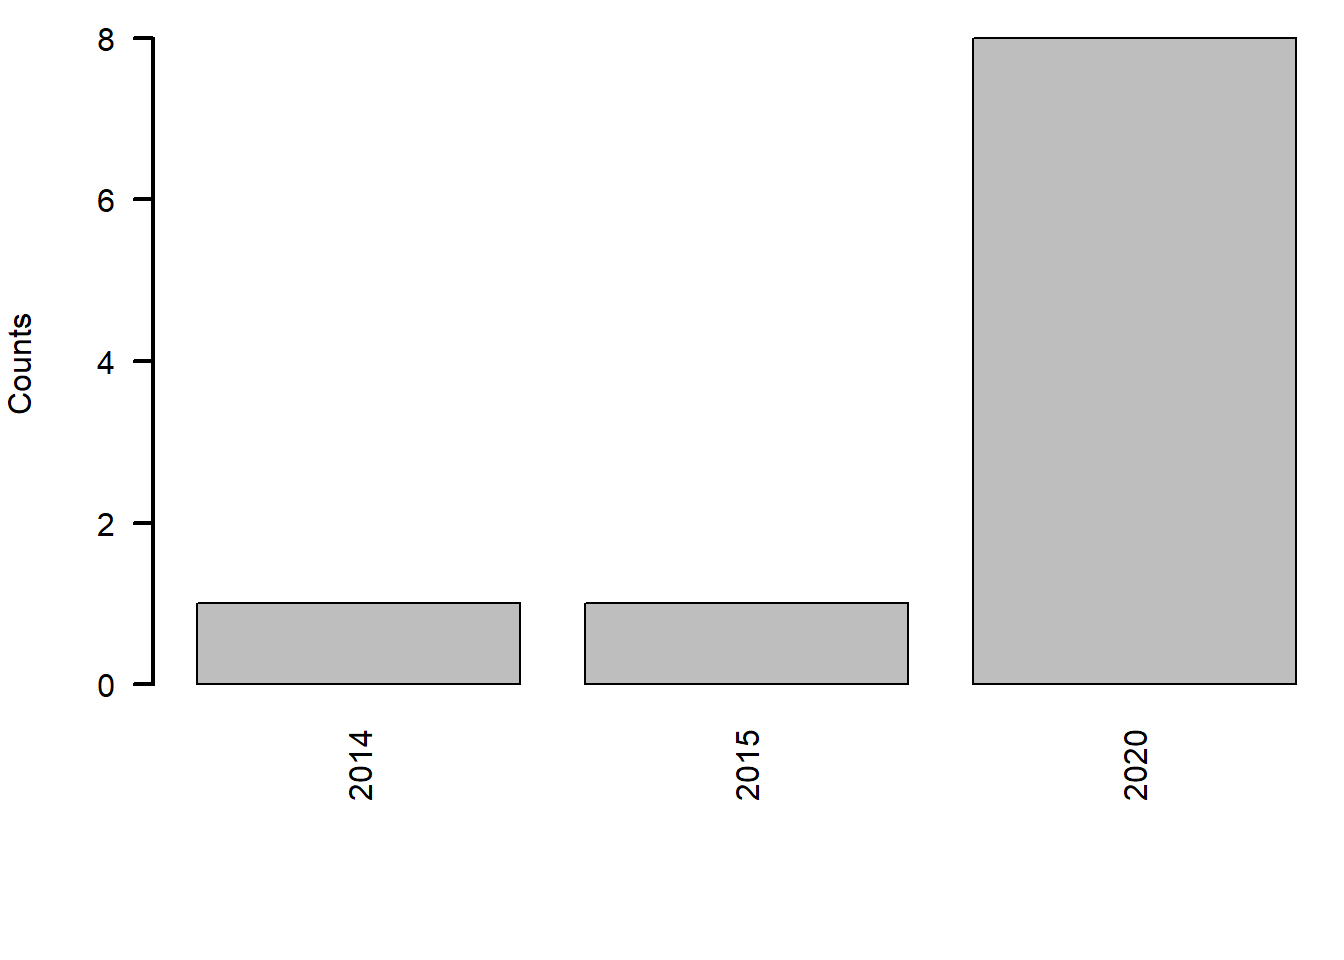
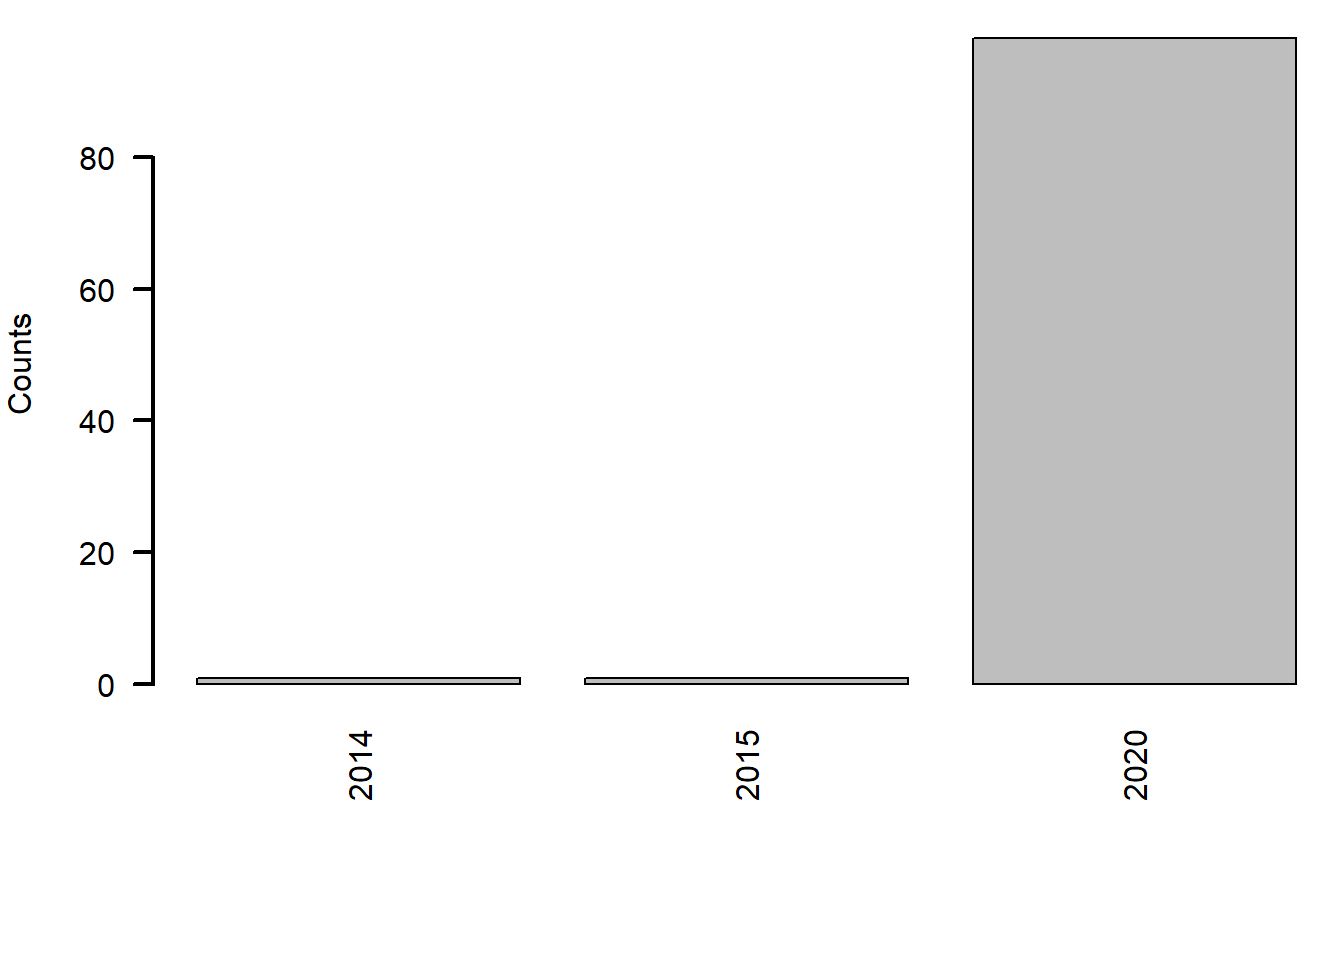
commit 2

diff --git a/First_Asset.html b/First_Asset.html
@@ -304,8 +304,8 @@ library(purrr)
 library(stringr)
 library(dplyr)
 library(lubridate)</code></pre>
-<div id="functions" class="section level1">
-<h1>FUNCTIONS</h1>
+<div id="functions" class="section level2">
+<h2>FUNCTIONS</h2>
 <pre class="r"><code>##### intreview_date function ##### 
 intreview_date &lt;- function(html){
   html %&gt;%
@@ -328,25 +328,19 @@ intreview_location &lt;- function(html){
   map_df(~list(location = html_node(.x, &#39;.authorLocation&#39;) %&gt;% html_text() %&gt;% {if(length(.) == 0) NA else .}))
 }</code></pre>
 </div>
-<div id="inputs" class="section level1">
-<h1>INPUTS</h1>
+<div id="inputs" class="section level2">
+<h2>INPUTS</h2>
 <pre class="r"><code>url &lt;- &quot;https://www.glassdoor.com/Interview/Google-Interview-Questions-E9079_P%d.htm&quot;
-last_page &lt;- 1
+last_page &lt;- 10
 pages_url &lt;- str_c(sprintf(url,1:last_page))
 pages_url &lt;- gsub(&quot;_P1.htm&quot;,&quot;.htm&quot;,pages_url)
 pages_url[1]</code></pre>
 <pre><code>## [1] &quot;https://www.glassdoor.com/Interview/Google-Interview-Questions-E9079.htm&quot;</code></pre>
-<pre class="r"><code>print(&quot;...&quot;)</code></pre>
-<pre><code>## [1] &quot;...&quot;</code></pre>
-<pre class="r"><code>print(&quot;...&quot;)</code></pre>
-<pre><code>## [1] &quot;...&quot;</code></pre>
-<pre class="r"><code>print(&quot;...&quot;)</code></pre>
-<pre><code>## [1] &quot;...&quot;</code></pre>
 <pre class="r"><code>pages_url[last_page]</code></pre>
-<pre><code>## [1] &quot;https://www.glassdoor.com/Interview/Google-Interview-Questions-E9079.htm&quot;</code></pre>
+<pre><code>## [1] &quot;https://www.glassdoor.com/Interview/Google-Interview-Questions-E9079_P10.htm&quot;</code></pre>
 </div>
-<div id="analysis" class="section level1">
-<h1>ANALYSIS</h1>
+<div id="analysis" class="section level2">
+<h2>ANALYSIS</h2>
 <pre class="r"><code>map_df(1:last_page,function(i){
   cat(&quot;.&quot;)
   page_html &lt;- read_html (pages_url[i])
@@ -355,28 +349,28 @@ pages_url[1]</code></pre>
   Location &lt;- intreview_location (page_html)
   data.frame(Dates,Title,Location,stringsAsFactors = FALSE)
   }) -&gt; result</code></pre>
-<pre><code>## .</code></pre>
+<pre><code>## ..........</code></pre>
 </div>
-<div id="number-of-interviews-per-year" class="section level1">
-<h1>Number of Interviews per Year</h1>
+<div id="number-of-interviews-per-year" class="section level2">
+<h2>Number of Interviews per Year</h2>
 <pre class="r"><code>Dates &lt;- as.Date(result$Dates,&quot; %B %d, %Y&quot;)
 Year &lt;- as.numeric(format(Dates,&#39;%Y&#39;))
 y &lt;- table(Year)
 par(mar=c(7,4,1,0.1))
 barplot(y, args.legend = list(x =&#39;top&#39;), ylab = &quot;Counts&quot;, cex.axis=1.0, cex.name=1.0, las=2, lwd=2, beside=TRUE)</code></pre>
-<p><img src="First_Asset_files/figure-html/unnamed-chunk-27-1.png" width="672" /></p>
+<p><img src="First_Asset_files/figure-html/unnamed-chunk-5-1.png" width="672" /></p>
 </div>
-<div id="top-10-job-openings-in-google" class="section level1">
-<h1>Top 10 job openings in Google</h1>
+<div id="top-10-job-openings-in-google" class="section level2">
+<h2>Top 10 job openings in Google</h2>
 <pre class="r"><code>x &lt;- tail(sort(table(result$title)),10)
 pie(x, main=&quot;Precentage&quot;, col = rainbow(length(x)))</code></pre>
-<p><img src="First_Asset_files/figure-html/unnamed-chunk-28-1.png" width="672" /></p>
+<p><img src="First_Asset_files/figure-html/unnamed-chunk-6-1.png" width="672" /></p>
 </div>
-<div id="top-10-googles-offices-with-highest-recriutment" class="section level1">
-<h1>Top 10 Google’s offices with highest recriutment</h1>
+<div id="top-10-googles-offices-with-highest-recriutment" class="section level2">
+<h2>Top 10 Google’s offices with highest recriutment</h2>
 <pre class="r"><code>x &lt;- tail(sort(table(result$location)),10)
 pie(x, main=&quot;Precentage&quot;, col = rainbow(length(x)))</code></pre>
-<p><img src="First_Asset_files/figure-html/unnamed-chunk-29-1.png" width="672" /></p>
+<p><img src="First_Asset_files/figure-html/unnamed-chunk-7-1.png" width="672" /></p>
 </div>
 
 
